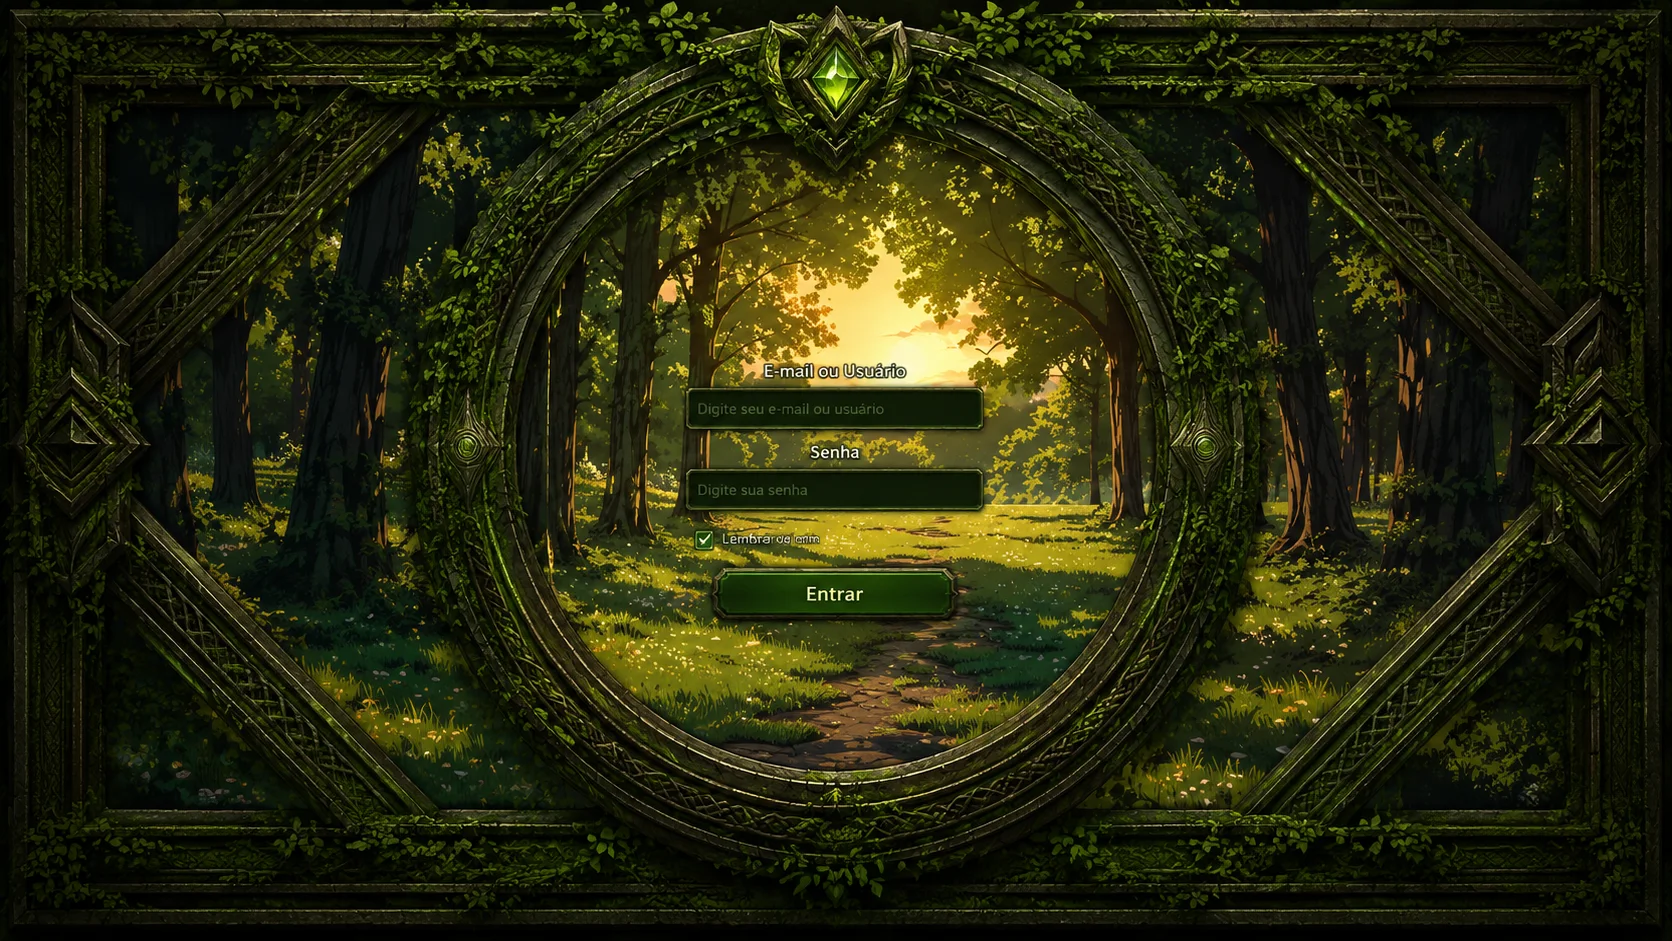
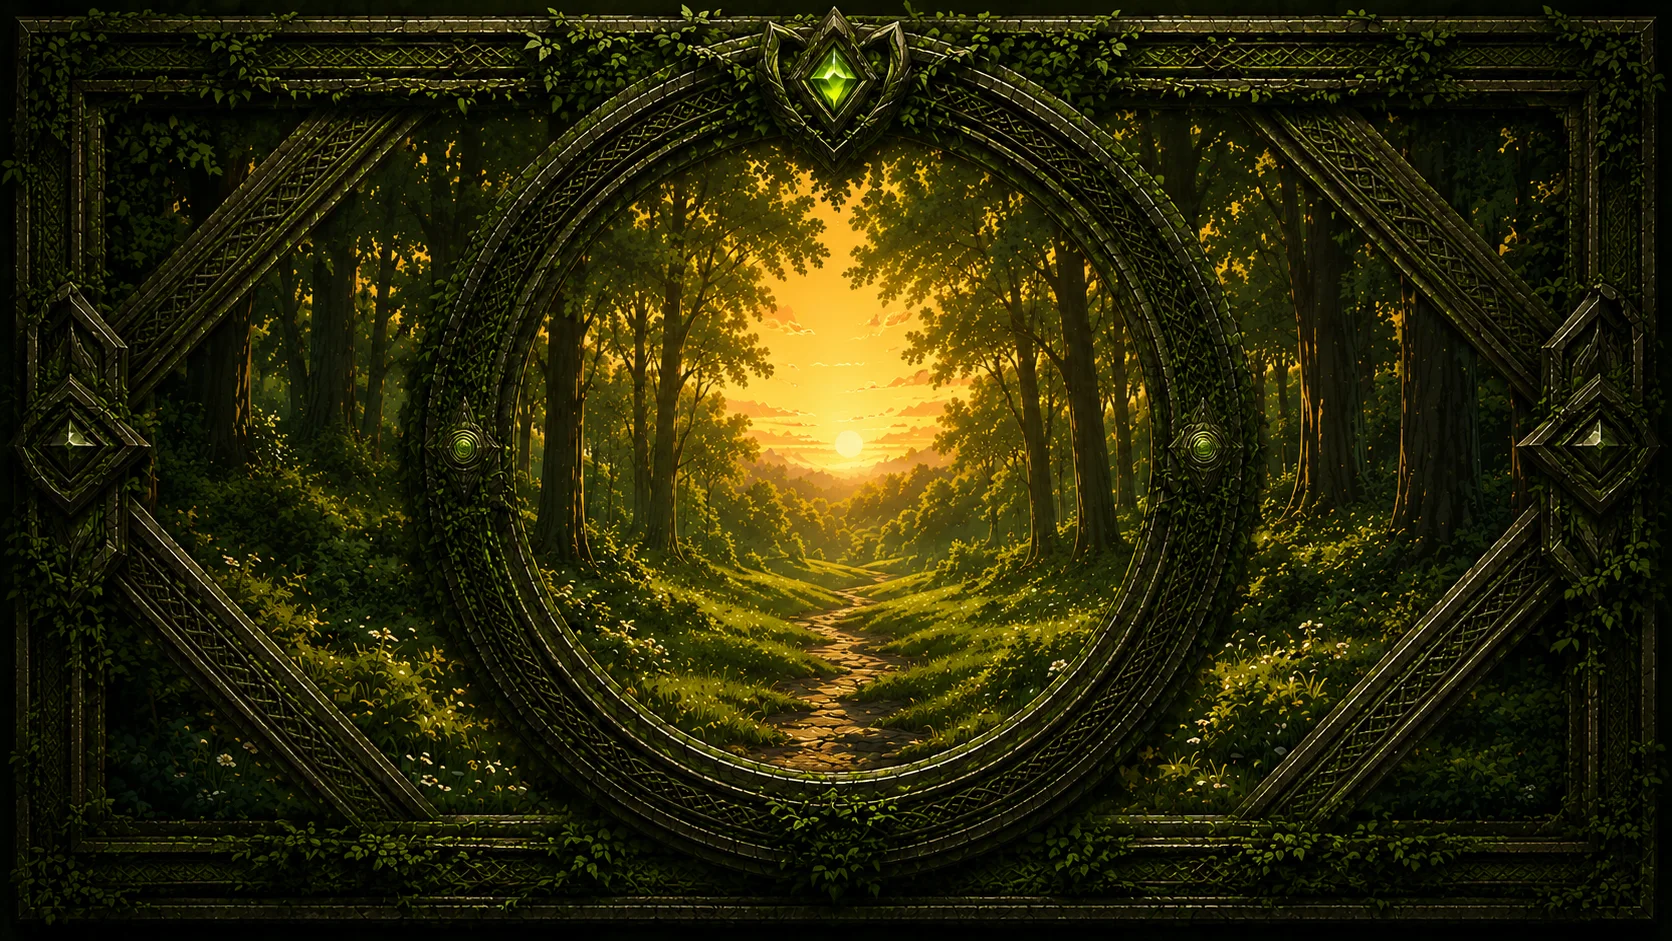
feat: novo fundo dourado na tela de login + formulário real centralizado
- Fundo trocado pela nova arte (círculo limpo, pôr do sol dourado) —
  versão sem formulário pintado enviada pelo Kauã
- Como a arte veio limpa, o formulário agora é 100% real e estilizado
  (labels traduzem em EN, botão Entrar ornamentado verde) centralizado
  no círculo via cover-box
- Loading "Carregando o mundo" em painel próprio no centro do círculo

diff --git a/src/components/gate/LoginGate.tsx b/src/components/gate/LoginGate.tsx
@@ -21,17 +21,11 @@ const NAME_KEY = 'kaua-adventurer';
 
 const YOUTUBE_URL = 'https://www.youtube.com/@KauartX';
 
-// A arte de fundo tem 1672×941. Os campos reais ficam alinhados por cima
-// dos elementos pintados nela (posições medidas por script, em %).
+// A arte de fundo tem 1672×941 (círculo limpo no centro).
+// O formulário mora numa coluna centralizada dentro do círculo.
 const BG_RATIO = 941 / 1672;
-const BOX = {
-  email: { left: '41.2%', top: '41.3%', width: '17.5%', height: '4.1%' },
-  senha: { left: '41.2%', top: '49.9%', width: '17.5%', height: '4.1%' },
-  lembrar: { left: '41.2%', top: '56.5%', width: '10.5%', height: '3%' },
-  entrar: { left: '42.9%', top: '60.7%', width: '14.1%', height: '4.6%' },
-  visitante: { left: '41.2%', top: '66.6%', width: '17.5%' },
-  loading: { left: '38%', top: '44%', width: '24%', height: '24%' },
-} as const;
+const FORM_AREA = { left: '50%', top: '32%', width: '19%' } as const;
+const LOADING_AREA = { left: '50%', top: '42%', width: '24%', height: '26%' } as const;
 
 // Posições fixas (nada de Math.random no render → sem bug de hidratação)
 const FIREFLIES = [
@@ -192,7 +186,7 @@ export default function LoginGate() {
   if (typeof document === 'undefined') return null;
 
   const inputClass =
-    'absolute rounded-md bg-[#0a1c0f]/95 border border-[#68a14c]/45 focus:border-[#9fdb6d] outline-none px-3 text-[13px] text-[#e9fbef] placeholder:text-[#7a9a83]/80 shadow-[inset_0_2px_8px_rgba(0,0,0,0.55)] transition-colors';
+    'w-full rounded-md bg-[#0a1c0f]/95 border border-[#68a14c]/45 focus:border-[#9fdb6d] outline-none px-3 py-2.5 text-[13px] text-[#e9fbef] placeholder:text-[#7a9a83]/80 shadow-[inset_0_2px_8px_rgba(0,0,0,0.55)] transition-colors';
 
   return createPortal(
     <AnimatePresence>
@@ -230,42 +224,56 @@ export default function LoginGate() {
             <div aria-hidden className="absolute inset-0 bg-[#0d3a1c]/15 mix-blend-overlay" />
             <div aria-hidden className="absolute inset-0 aurora-vignette opacity-60" />
 
-            {/* ── Campos reais alinhados sobre os pintados ── */}
+            {/* ── Formulário no centro do círculo ── */}
             {stage !== 'loading' ? (
-              <form onSubmit={enter} className={formActive ? '' : 'pointer-events-none opacity-80'}>
+              <form
+                onSubmit={enter}
+                style={FORM_AREA}
+                className={`absolute -translate-x-1/2 flex flex-col gap-2 min-w-[250px] max-w-[340px] ${
+                  formActive ? '' : 'pointer-events-none opacity-80'
+                }`}
+              >
+                <label
+                  htmlFor="gate-user"
+                  className="self-center text-[13px] font-bold text-[#f2fbe8] [text-shadow:0_1px_4px_rgba(0,0,0,0.95),0_0_12px_rgba(0,0,0,0.6)]"
+                >
+                  {t('label_user')}
+                </label>
                 <input
                   id="gate-user"
                   type="text"
                   value={name}
                   onChange={(e) => setName(e.target.value)}
                   placeholder={t('placeholder_user')}
-                  aria-label={t('label_user')}
                   autoComplete="off"
                   maxLength={40}
-                  style={BOX.email}
                   className={inputClass}
                 />
+
+                <label
+                  htmlFor="gate-pass"
+                  className="self-center mt-1 text-[13px] font-bold text-[#f2fbe8] [text-shadow:0_1px_4px_rgba(0,0,0,0.95),0_0_12px_rgba(0,0,0,0.6)]"
+                >
+                  {t('label_pass')}
+                </label>
                 <input
                   id="gate-pass"
                   type="password"
                   value={pass}
                   onChange={(e) => setPass(e.target.value)}
                   placeholder={t('placeholder_pass')}
-                  aria-label={t('label_pass')}
                   autoComplete="off"
                   maxLength={64}
-                  style={BOX.senha}
                   className={inputClass}
                 />
 
-                {/* Lembrar de mim (cobre o pintado, que era ilegível) */}
+                {/* Lembrar de mim */}
                 <button
                   type="button"
                   role="checkbox"
                   aria-checked={remember}
                   onClick={() => setRemember(!remember)}
-                  style={BOX.lembrar}
-                  className="absolute flex items-center gap-1.5 px-1.5 rounded bg-[#0a1c0f]/90 border border-[#68a14c]/30"
+                  className="self-center mt-1 flex items-center gap-1.5 px-2 py-0.5 rounded bg-[#0a1c0f]/80 border border-[#68a14c]/30"
                 >
                   <span
                     className={`w-3.5 h-3.5 rounded-sm border flex items-center justify-center transition-all ${
@@ -276,24 +284,23 @@ export default function LoginGate() {
                   >
                     {remember && <Check size={10} strokeWidth={3.5} />}
                   </span>
-                  <span className="text-[11px] text-[#d8f2e2] whitespace-nowrap pr-1">
+                  <span className="text-[11px] text-[#d8f2e2] whitespace-nowrap">
                     {t('remember')}
                   </span>
                 </button>
 
-                {/* Botão Entrar: o desenho pintado é o visual; aqui só o clique */}
+                {/* Botão Entrar — estilo pedra/madeira do jogo */}
                 <button
                   type="submit"
-                  aria-label={t('enter')}
-                  style={BOX.entrar}
-                  className="absolute rounded-lg cursor-pointer transition-all hover:shadow-[0_0_24px_rgba(120,220,110,0.55),inset_0_0_14px_rgba(160,255,150,0.2)] hover:brightness-110 active:scale-[0.98]"
-                />
+                  className="mt-2 w-full py-2.5 rounded-lg bg-gradient-to-b from-[#1d4a20] to-[#0d2b12] border-2 border-[#7aa54b]/70 text-[#eafff2] text-[15px] font-bold tracking-wide shadow-[0_4px_16px_rgba(0,0,0,0.6),inset_0_1px_0_rgba(180,255,160,0.25)] transition-all hover:brightness-115 hover:shadow-[0_0_24px_rgba(120,220,110,0.5),inset_0_1px_0_rgba(180,255,160,0.3)] active:scale-[0.98]"
+                >
+                  {t('enter')}
+                </button>
 
                 <button
                   type="button"
                   onClick={enterGuest}
-                  style={BOX.visitante}
-                  className="absolute text-center text-[11px] text-[#d8f2e2]/90 [text-shadow:0_1px_3px_rgba(0,0,0,0.95)] hover:text-white underline underline-offset-4 decoration-dotted transition-colors"
+                  className="self-center text-[11px] text-[#e4f5ea] [text-shadow:0_1px_3px_rgba(0,0,0,0.95)] hover:text-white underline underline-offset-4 decoration-dotted transition-colors"
                 >
                   {t('guest')} →
                 </button>
@@ -301,8 +308,8 @@ export default function LoginGate() {
             ) : (
               /* ── Carregando o mundo (no centro do círculo) ── */
               <div
-                style={BOX.loading}
-                className="absolute flex flex-col items-center justify-center gap-3 text-center rounded-2xl bg-[#07130a]/85 border border-[#68a14c]/35 backdrop-blur-sm p-4"
+                style={LOADING_AREA}
+                className="absolute -translate-x-1/2 min-w-[250px] flex flex-col items-center justify-center gap-3 text-center rounded-2xl bg-[#07130a]/85 border border-[#68a14c]/35 backdrop-blur-sm p-4"
               >
                 <Compass
                   size={26}
